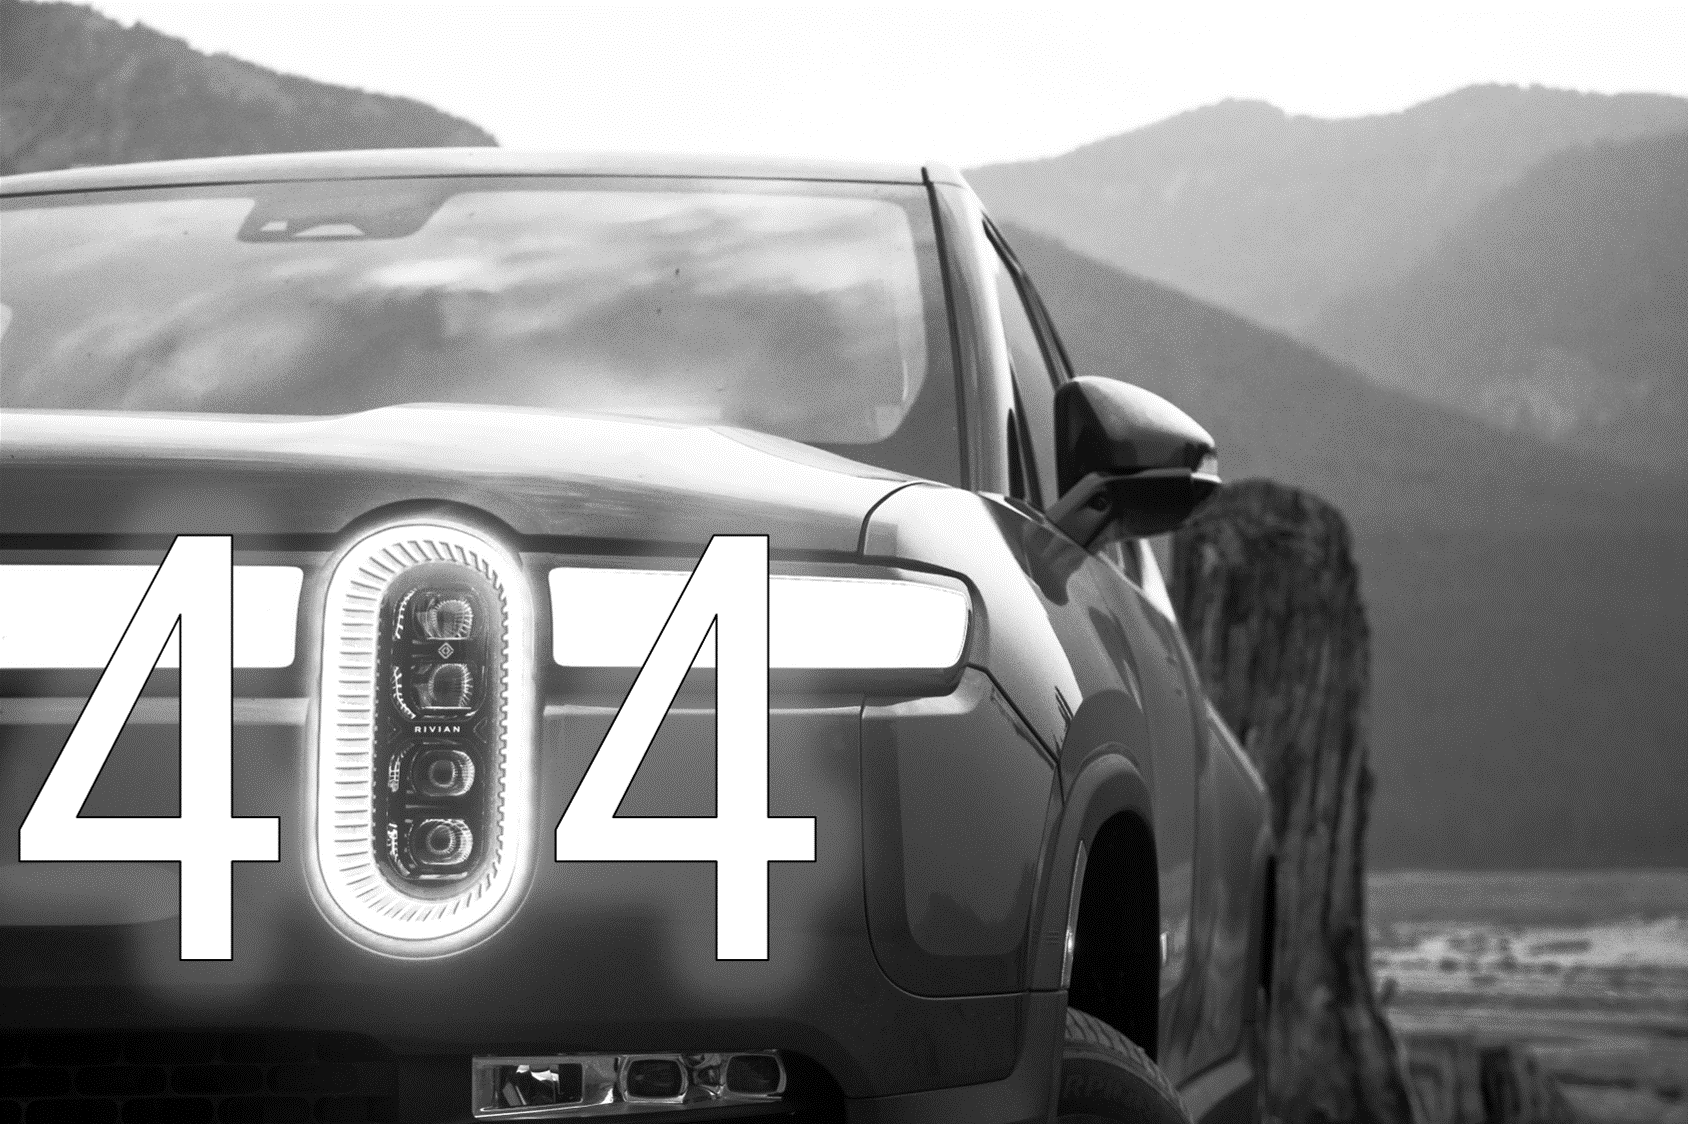
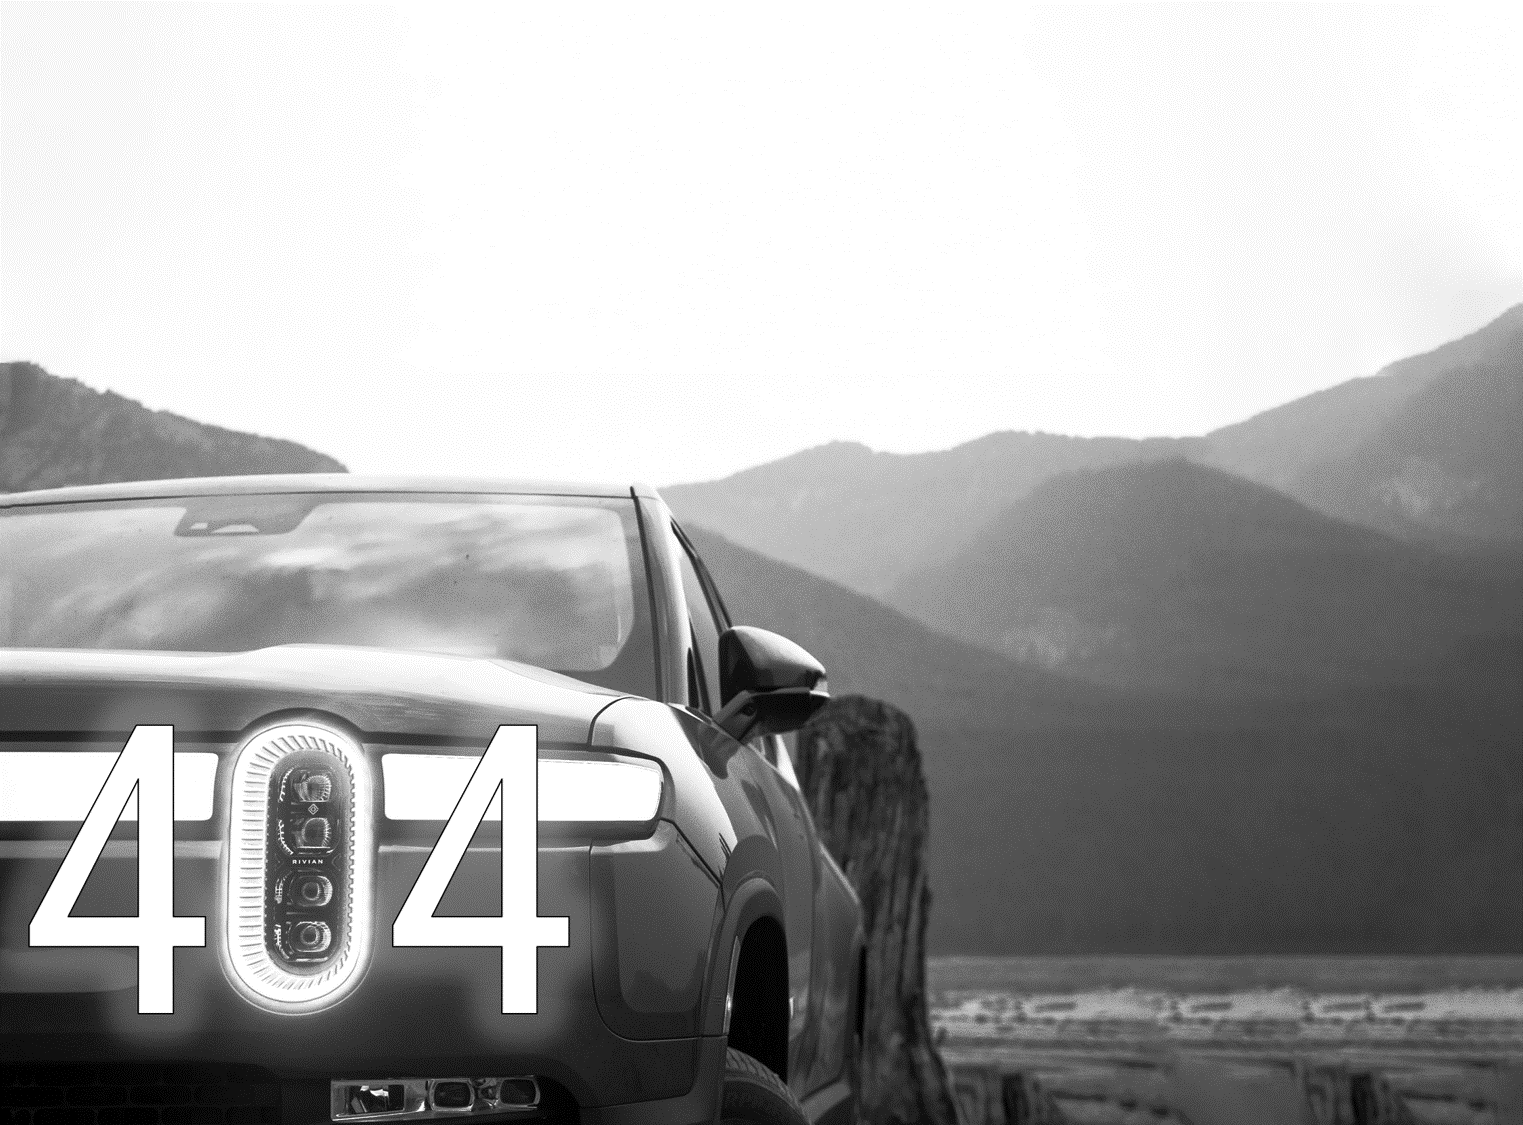
Fix 404 image source

diff --git a/404.md b/404.md
@@ -5,7 +5,7 @@ nav_exclude: true
 ---
 
 <div class="container">
-  <img src="404.png" alt="404 Error Image" />
+  <img src="/404.png" alt="404 Error Image" />
   <p class="err-text">Page not found.</p>
 </div>
 
@@ -23,6 +23,7 @@ nav_exclude: true
   width: 100%;
   height: 100%;
   object-fit: cover;
+  object-position: bottom left;
 }
 
 .err-text {
